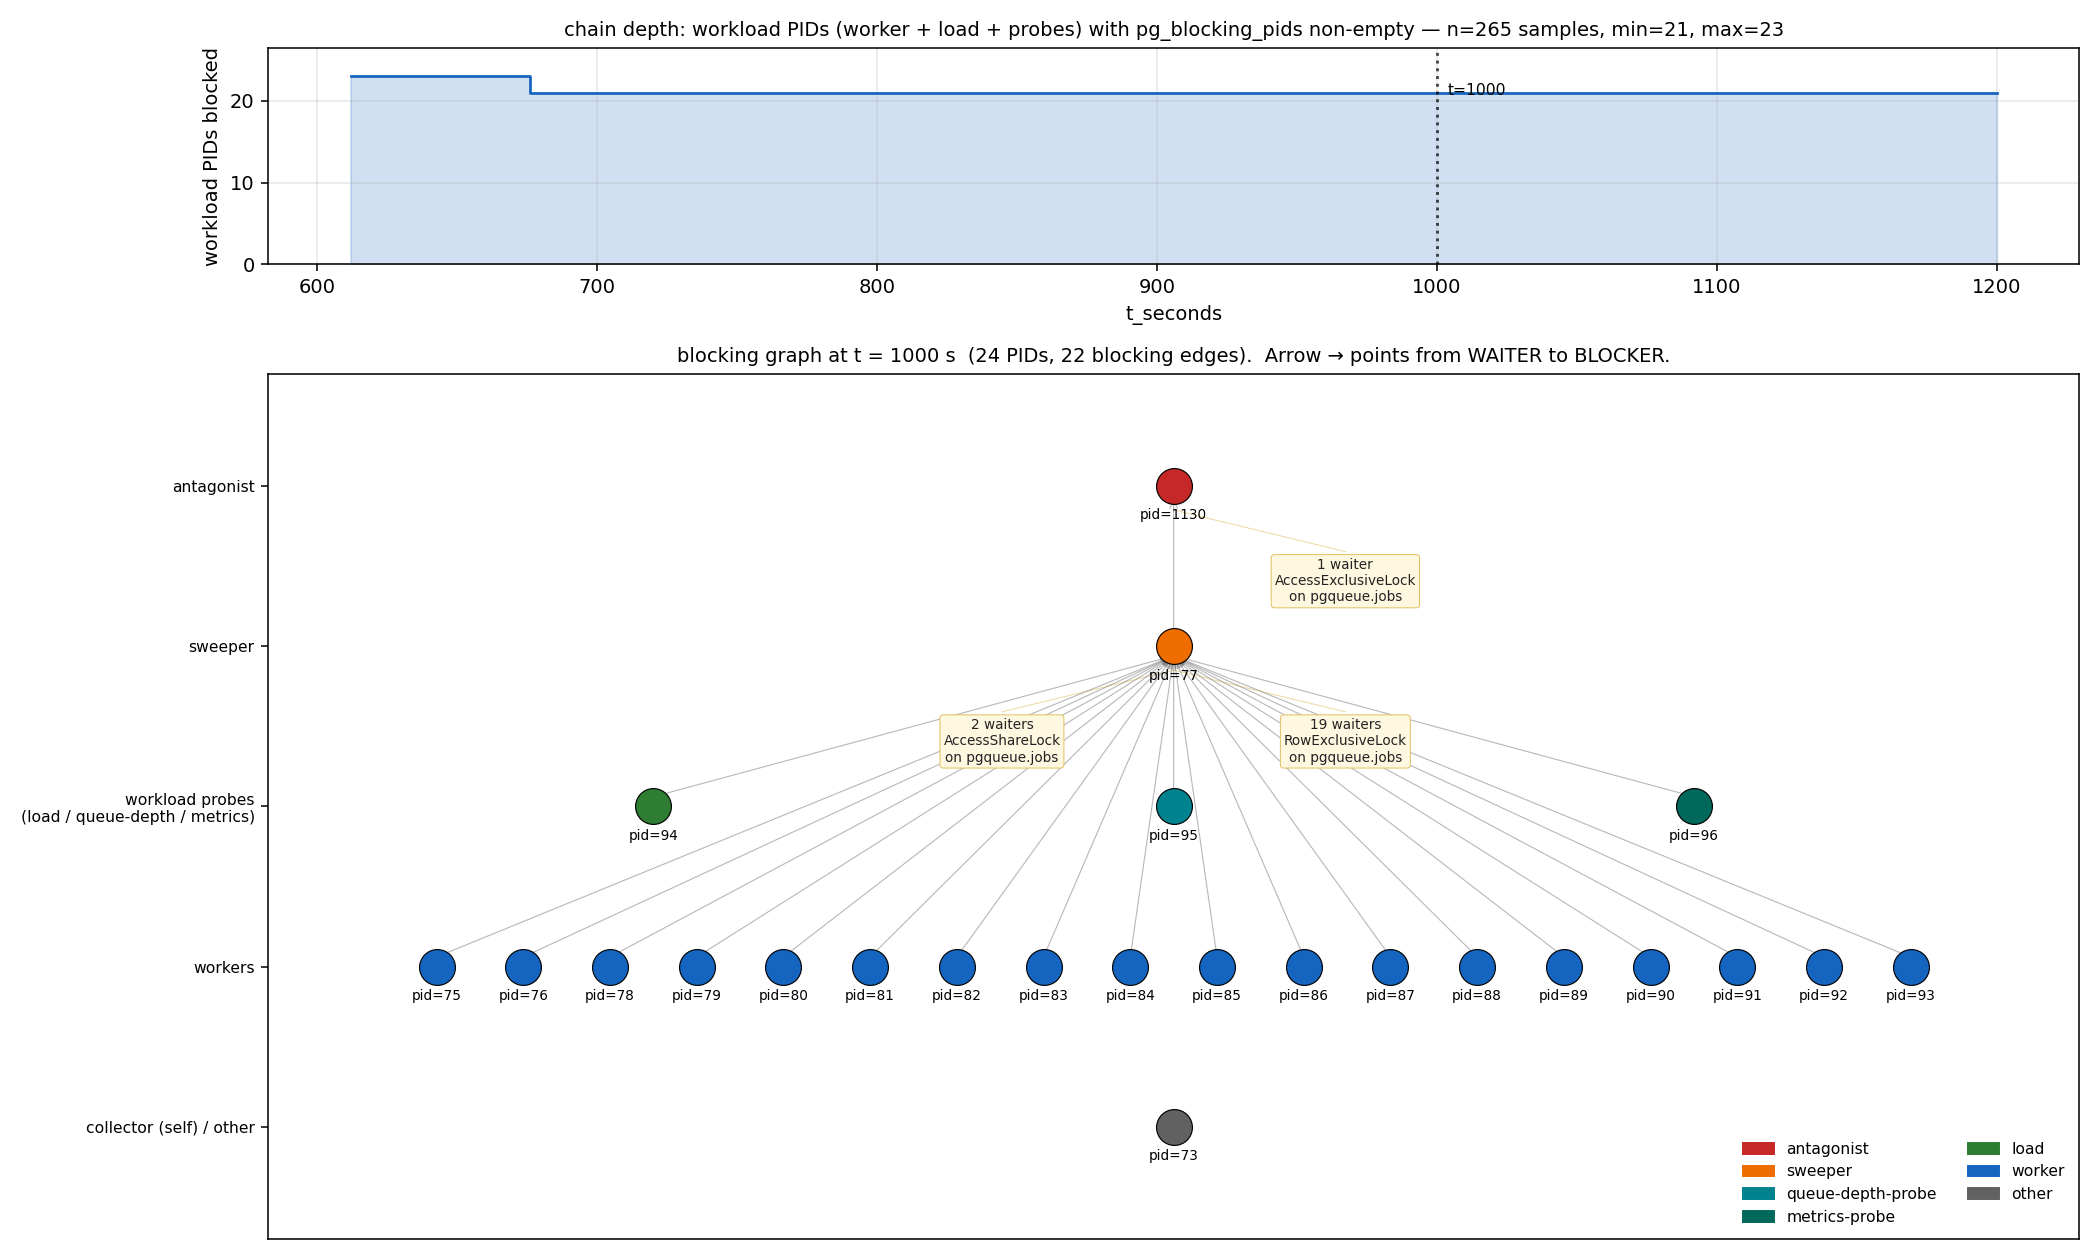
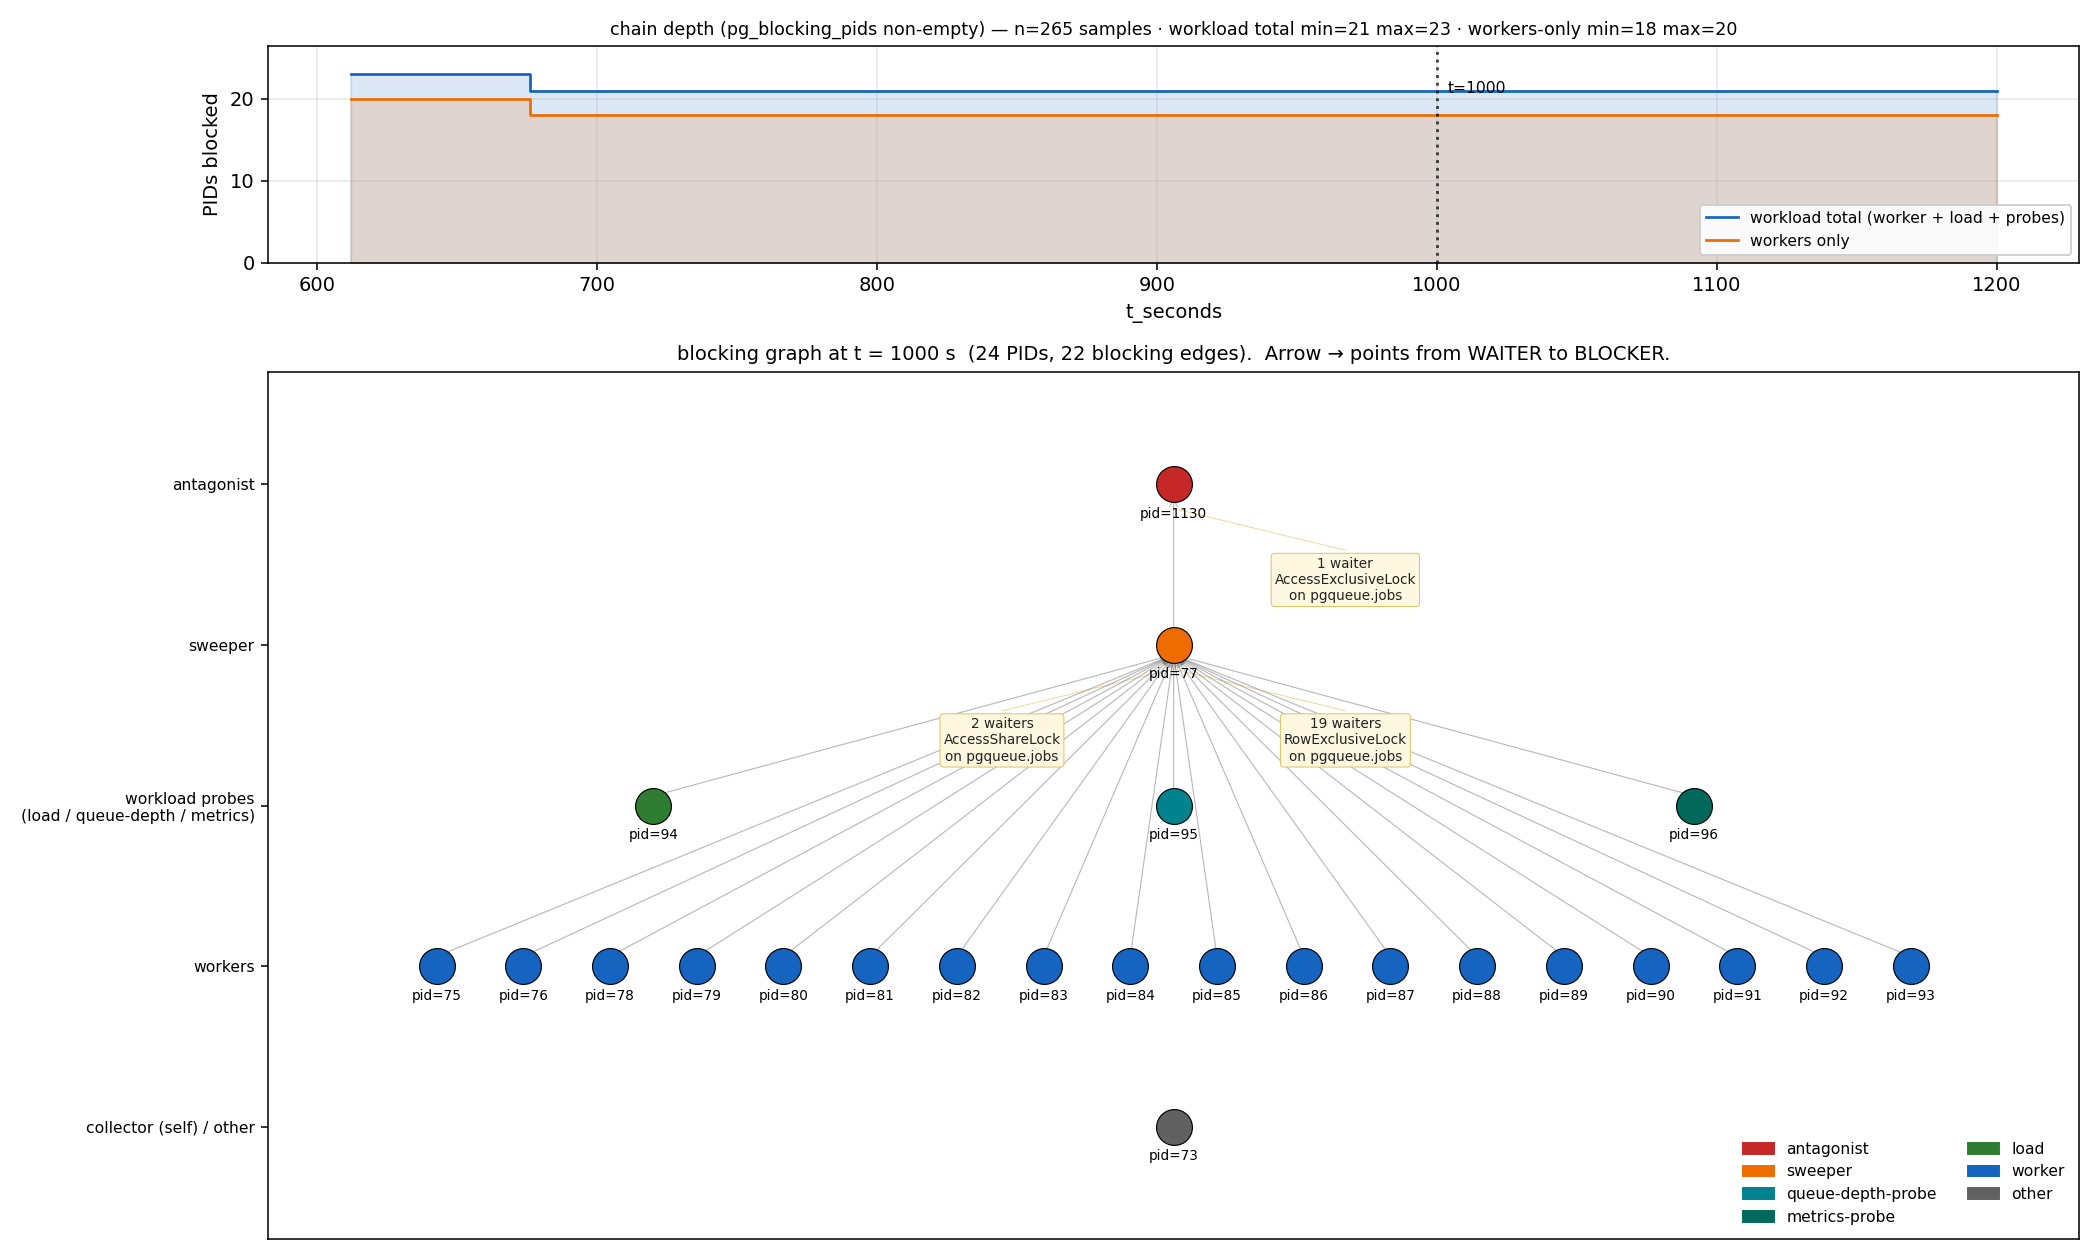
M3b: register prediction, mark M3-attempt1 claim as inference
Appends a timestamped 'Prediction (registered 2026-08-06, before first
run)' block to docs/m3b.md so whatever the first M3b run produces sits
next to what was expected. Removes an earlier untimed '## Prediction'
stub that was a strict subset of the registered block, so the file has
exactly one section named Prediction.

Registered claims: B ~1300 jobs/sec; CREATE/ATTACH path no wedge (SUE
compatible with antagonist's AccessShare); DROP path intentionally
unchanged so ~2s stall per 60s sweep predicted; chain depth 0 for
>=97% of samples (baseline from M3.locks.slow.window-600-1200.csv.gz:
workers-only min=18 max=20, workload total min=21 max=23, n=265)
bytes/completed job 350-450 R1-3 band; falsification criteria listed
autovacuum-SUE contention flagged as remaining plausible wedge source

Re-labels the M3-attempt1 CONCURRENT DETACH claim as INFERENCE not
observation: workload CSV + meta + commit-message narrative exist,
lock-graph evidence does not (attempt predates the LockCollector).
Adds an Open questions section naming (a) the phase-2 snapshot-wait
hypothesis, (b) autovacuum-vs-sweeper SUE contention, (c) the DROP-stall dip prediction.

Chart: plot_locks.py top panel now shows both series -- workload total
(worker + load + probes) and workers-only -- so the distinction between
21-23 and 18-20 is visible on the chart itself rather than requiring a
caption. results/M3.locks.chain-at-1000.png re-rendered.

diff --git a/scripts/plot_locks.py b/scripts/plot_locks.py
@@ -101,11 +101,19 @@ def load_rows(csv_path: Path) -> list[dict]:
 
 
 def chain_depth_series(rows: list[dict]) -> dict[int, int]:
+    return _depth_series(rows, WORKLOAD_ROLES)
+
+
+def worker_depth_series(rows: list[dict]) -> dict[int, int]:
+    return _depth_series(rows, {"worker"})
+
+
+def _depth_series(rows: list[dict], roles: set[str]) -> dict[int, int]:
     per_t: dict[int, set[str]] = defaultdict(set)
     for r in rows:
         if not r["blocking_pids"]:
             continue
-        if infer_role(r["query_snippet"], r["state"]) not in WORKLOAD_ROLES:
+        if infer_role(r["query_snippet"], r["state"]) not in roles:
             continue
         per_t[int(r["t_seconds"])].add(r["pid"])
     return {t: len(pids) for t, pids in per_t.items()}
@@ -231,27 +239,44 @@ def draw_chain(ax, nodes, edges, at_t):
               ncol=2)
 
 
-def draw_timeline(ax, depth: dict[int, int], focus_t: int):
-    if not depth:
+def draw_timeline(ax, workload_depth: dict[int, int],
+                  worker_depth: dict[int, int], focus_t: int):
+    """Two step-lines: workload total (workers + load + probes) and
+    workers-only. Distinction is important because the two counts read
+    differently in the M3 record — 21-23 vs 18-20 — and the whole point
+    of publishing this chart is that the workload probes are victims of
+    the same wedge that hits the workers."""
+    if not workload_depth:
         ax.text(0.5, 0.5, "no workload PIDs blocked in this file",
                 ha="center", va="center", transform=ax.transAxes)
         return
-    ts = sorted(depth.keys())
-    ys = [depth[t] for t in ts]
-    ax.step(ts, ys, where="post", color="#1565c0", linewidth=1.4)
-    ax.fill_between(ts, ys, step="post", alpha=0.2, color="#1565c0")
+
+    def _plot(depth, color, label):
+        ts = sorted(depth.keys())
+        ys = [depth[t] for t in ts]
+        ax.step(ts, ys, where="post", color=color, linewidth=1.4, label=label)
+        ax.fill_between(ts, ys, step="post", alpha=0.15, color=color)
+
+    _plot(workload_depth, "#1565c0", "workload total (worker + load + probes)")
+    _plot(worker_depth, "#ef6c00", "workers only")
+
     ax.axvline(focus_t, color="black", linestyle=":", alpha=0.7)
-    ymax = max(ys)
+    ys_all = list(workload_depth.values())
+    ymax = max(ys_all)
     ax.set_ylim(0, ymax * 1.15 if ymax else 1)
     ax.text(focus_t + 4, ymax * 0.9, f"t={focus_t}", fontsize=8, color="black")
     ax.set_xlabel("t_seconds")
-    ax.set_ylabel("workload PIDs blocked")
+    ax.set_ylabel("PIDs blocked")
+
+    ys_workers = list(worker_depth.values()) or [0]
     ax.set_title(
-        f"chain depth: workload PIDs (worker + load + probes) with "
-        f"pg_blocking_pids non-empty — n={len(ts)} samples, "
-        f"min={min(ys)}, max={ymax}",
-        fontsize=10)
+        f"chain depth (pg_blocking_pids non-empty) — "
+        f"n={len(workload_depth)} samples · "
+        f"workload total min={min(ys_all)} max={ymax} · "
+        f"workers-only min={min(ys_workers)} max={max(ys_workers)}",
+        fontsize=9)
     ax.grid(True, alpha=0.3)
+    ax.legend(loc="lower right", fontsize=8, framealpha=0.9)
 
 
 def main(argv):
@@ -266,7 +291,8 @@ def main(argv):
         args.out = args.csv.parent / f"{stem}.locks.chain-at-{args.at}.png"
 
     rows = load_rows(args.csv)
-    depth = chain_depth_series(rows)
+    workload_depth = chain_depth_series(rows)
+    worker_depth = worker_depth_series(rows)
     snap = snapshot(rows, args.at)
     if not snap:
         print(f"no rows at t={args.at} in {args.csv}", file=sys.stderr)
@@ -277,7 +303,7 @@ def main(argv):
         2, 1, figsize=(15, 9),
         gridspec_kw={"height_ratios": [1, 4]}
     )
-    draw_timeline(ax_top, depth, args.at)
+    draw_timeline(ax_top, workload_depth, worker_depth, args.at)
     draw_chain(ax_bot, nodes, edges, args.at)
     fig.tight_layout()
     fig.savefig(args.out, dpi=140)

diff --git a/docs/m3b.md b/docs/m3b.md
@@ -77,14 +77,6 @@ Consequences for a full-length M3b run:
   `AccessExclusive` DROPs are granted; the accumulated partitions clear in
   one sweep tick.
 
-## Prediction
-
-M3b prevents the collapse observed in M3. `t_50` and `t_25` should both be
-`never`. Storage grows like R1–R3 under the antagonist window; the mitigation
-value is throughput preservation, not storage reclamation. Formal comparison:
-lock graph should contain no rows where a worker `UPDATE` is `blocked_by` a
-Sweeper `ATTACH` or `CREATE PARTITION`.
-
 ## What could still block M3b
 
 - **Concurrent Sweeper ATTACHes on the same parent.** `ShareUpdateExclusive`
@@ -206,12 +198,54 @@ outcome sit side by side in git.
   M3b shows the periodic DROP-path throughput dip predicted above,
   that becomes clean evidence for a follow-up M3c rather than a
   confound of M3b.
-- **Honest caveat on any future M3c.** `results/M3-attempt1.csv` shows
-  the first M3 attempt used CONCURRENT DETACH and wedged at t = 674 s.
-  The root cause was not a lock conflict but the concurrent detach's
-  second phase, which waits for any snapshot older than the
-  "detach-pending" mark to complete — the antagonist's `REPEATABLE
-  READ` snapshot never does. Naïve M3c would inherit this exact
-  failure. A real M3c would need a variant that does not wait for
-  old snapshots (e.g., abandon the detach after a grace period, or
-  archive the partition to a separate schema instead of dropping).
+- **Caveat on any future M3c — INFERENCE, not observation.** The claim
+  circulating in this repo is that the first M3 attempt used CONCURRENT
+  DETACH and wedged at t ≈ 674 s because the concurrent detach's second
+  phase waits for any snapshot older than the "detach-pending" mark to
+  complete, and the antagonist's `REPEATABLE READ` snapshot never does.
+  If true, naïve M3c inherits this exact failure.
+
+  What actually exists:
+  - `results/M3-attempt1.csv` — workload CSV, shows a wedge to zero
+    throughput after t ≈ 700 s (`t_25 = 681`). Consistent with any
+    sweeper-side wedge; not diagnostic on its own.
+  - `results/M3-attempt1.meta.json` — derived from the above.
+  - Git commit `3d49de7` message asserts DETACH CONCURRENTLY was tried
+    and reverted with the phase-2-snapshot-wait reasoning above; the
+    DETACH-CONCURRENTLY code itself was never committed (fixed before
+    the first commit of the M3 code).
+
+  What is missing:
+  - No `M3-attempt1.locks.*`, `env.json`, `probe.csv` — the attempt
+    predates the LockCollector (Aug 2 vs Aug 3).
+  - No lock-graph row showing the sweeper parked in the second phase
+    waiting on the antagonist's snapshot.
+
+  Classification: the claim is a **plausible inference from Postgres
+  documentation + the workload CSV + the commit-message narrative**,
+  not a direct observation. Do not read it as a result. Anyone building
+  M3c should either re-run M3-attempt1 with the LockCollector attached
+  to confirm or falsify the phase-2 hypothesis first, or design M3c
+  around the snapshot-wait risk regardless.
+
+## Open questions
+
+- **Does `DETACH PARTITION … CONCURRENTLY`'s second phase actually
+  wait on the antagonist's snapshot?** Currently supported only by
+  Postgres documentation, the workload CSV of `results/M3-attempt1`,
+  and a git commit message narrative. No lock-graph evidence in the
+  repo. Would be settled by re-running M3-attempt1 with the current
+  LockCollector attached and inspecting the sweeper's row in
+  `pg_locks` + `pg_stat_activity` during the wedge for a
+  `wait_event = SnapshotWait`-style signal (or an equivalent).
+- **Under M3b, does autovacuum on the parent ever acquire SUE long
+  enough to queue a sweeper ATTACH?** Prediction section calls this
+  the plausible remaining wedge source. First M3b run's slow-probe CSV
+  should answer it directly: look for `pg_stat_activity` rows belonging
+  to `autovacuum worker` with `mode = ShareUpdateExclusive` on
+  `pgqueue.jobs`, and sweeper rows with `granted = false` and
+  `blocked_by` = that autovacuum PID.
+- **Does the predicted ~2 s DROP stall per 60 s sweep tick actually
+  produce the ~3% throughput dip the arithmetic implies, or does the
+  workload absorb it in slack?** Answer will be in the M3b throughput
+  timeline.
